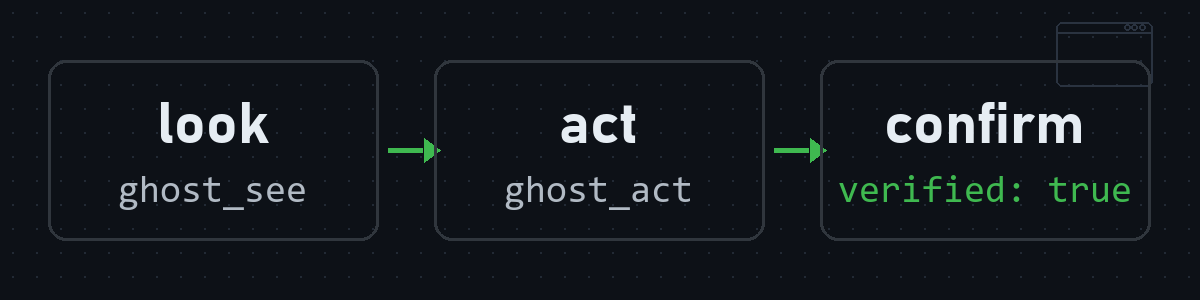
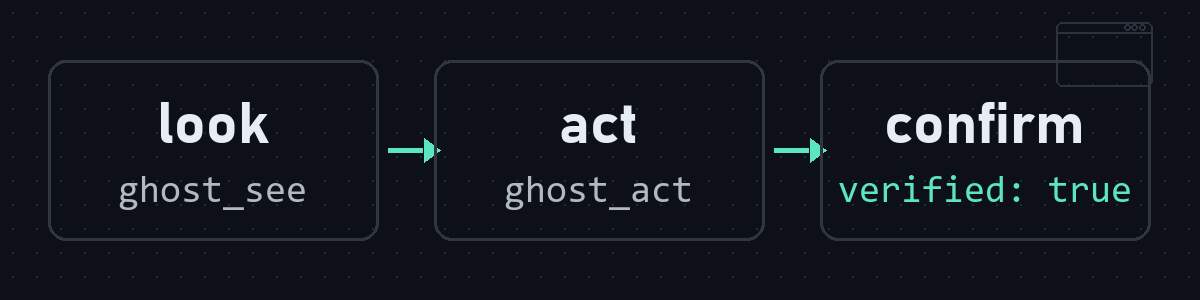
docs(readme): Ghost mint accent, Quick start button, the stray keystroke stated plainly

Changed region(s): [[0.6783, 0.57, 0.9558, 0.69], [0.6475, 0.48, 0.7092, 0.54], [0.3083, 0.48, 0.37, 0.54]]

diff --git a/scripts/readme-art.py b/scripts/readme-art.py
@@ -14,7 +14,9 @@ from PIL import Image, ImageDraw, ImageFont, ImageOps
 
 ROOT = Path(__file__).resolve().parent.parent
 BG, BORDER = "#0d1117", "#30363d"
-TEXT, MUTED, GREEN = "#e6edf3", "#8b949e", "#3fb950"
+TEXT, MUTED = "#e6edf3", "#8b949e"
+GREEN = "#5ce6c0"  # Ghost mint: "verified" in every panel
+PRIMER_GREEN = (0x3f, 0xb9, 0x50)  # what demo-gif.py drew the verified lines in
 W, PAD = 1200, 48  # 48 of 1200 is ~21px at 520, the demo frame's inset
 
 
@@ -124,7 +126,7 @@ def banner():
 
 def proof():
     rows = [
-        ("2,949 of ~2,950", ["keystrokes typed during six agent runs", "stayed in the person's window"]),
+        ("1 in ~2,950", ["keystrokes a person typed during six agent", "runs left their window"]),
         ("0", ["focus losses in a 160-action soak,", "and 0 unverified results"]),
         ("14 of 14", ["benchmark tasks passed, scored by", "re-observing the app"]),
     ]
@@ -213,6 +215,18 @@ def title_inset():
         d = ImageDraw.Draw(out)
         d.rectangle((left - 1, y - 1, left + CROP_W * SCALE, y + CROP_H * SCALE), outline=BORDER)
         out.paste(f.crop((0, bottom + 1, w, h)), (0, bottom + 1 + BAND))
+        bgc = tuple(int(BG[i:i + 2], 16) for i in (1, 3, 5))
+        mint = tuple(int(GREEN[i:i + 2], 16) for i in (1, 3, 5))
+        px = out.load()
+        for yy in range(out.height):
+            for xx in range(w):
+                r, g, b = px[xx, yy]
+                t = (g - bgc[1]) / (PRIMER_GREEN[1] - bgc[1])
+                if t <= 0.05 or t > 1.05:
+                    continue
+                expect = [bgc[k] + t * (PRIMER_GREEN[k] - bgc[k]) for k in range(3)]
+                if all(abs(c - e) <= 10 for c, e in zip((r, g, b), expect)):
+                    px[xx, yy] = tuple(round(bgc[k] + t * (mint[k] - bgc[k])) for k in range(3))
         # The same dot grid wherever the frame shows bare panel ground.
         bg = tuple(int(BG[i:i + 2], 16) for i in (1, 3, 5))
         o, g = out.load(), grid.load()
@@ -223,6 +237,16 @@ def title_inset():
         frames.append(out)
     frames[0].save(ROOT / "assets/demo-stacked-title.gif", save_all=True, append_images=frames[1:],
                    duration=durations, loop=0, optimize=True)
+
+
+def cta():
+    """The one call to action: a Quick start button in the art palette."""
+    w, h = 360, 96
+    im = Image.new("RGBA", (w, h), (0, 0, 0, 0))
+    d = ImageDraw.Draw(im)
+    d.rounded_rectangle((0, 0, w - 1, h - 1), radius=18, fill=GREEN)
+    d.text((w // 2, h // 2 + 2), "Quick start  >", font=display(44), fill=BG, anchor="mm")
+    im.save(ROOT / "assets/quick-start.png", optimize=True)
 
 
 def loop():
@@ -253,4 +277,5 @@ if __name__ == "__main__":
     proof()
     title_inset()
     loop()
+    cta()
     print("wrote assets/banner.png, assets/proof.png, assets/demo-stacked-title.gif, assets/loop.png")

diff --git a/README.md b/README.md
@@ -4,7 +4,9 @@
 [![Release](https://img.shields.io/github/v/release/NORTHTEKDevs/ghost?color=blue)](https://github.com/NORTHTEKDevs/ghost/releases/latest)
 [![License: MIT](https://img.shields.io/badge/license-MIT-blue.svg)](LICENSE)
 
-**[Quick start](#quick-start)** · [Connect](#2-connect-your-client) · [Try it](#3-try-it) · [Safety](#safety-model) · [Docs](docs/README.md)
+<a href="#quick-start"><img src="assets/quick-start.png" width="160" alt="Quick start"></a>
+
+[Connect](#2-connect-your-client) · [Try it](#3-try-it) · [Safety](#safety-model) · [Docs](docs/README.md)
 
 <p>
   <a href="assets/demo.gif"><img src="assets/demo-stacked-title.gif" width="520" alt="The run's result first: an agent's second click on a button returns verified: true, verified_by: title, focus_preserved: true and cursor_preserved: true, Ghost's screenshot shows the window title counting the click (repeated at twice its size under the window), and the user's foreground window recorded 0 changes. Then the run from the start: Ghost launches the app on its hidden desktop, types into a field and clicks a button, each call verified."></a>
@@ -36,7 +38,7 @@ screen and returns <code>verified:&nbsp;true</code> only when the change really 
 call it cannot complete fails with an error that says why.
 
 <p>
-  <img src="assets/proof.png" width="520" alt="Measured: 2,949 of about 2,950 keystrokes a person typed during six agent runs stayed in their window. 0 focus losses in a 160-action soak, with 0 unverified results. 14 of 14 benchmark tasks passed when scored by re-observing the app.">
+  <img src="assets/proof.png" width="520" alt="Measured: 1 in about 2,950 keystrokes a person typed during six agent runs left their window. 0 focus losses in a 160-action soak, with 0 unverified results. 14 of 14 benchmark tasks passed when scored by re-observing the app.">
 </p>
 
 How these were measured: [background mode](docs/background-mode.md#when-an-app-takes-the-foreground-itself)
